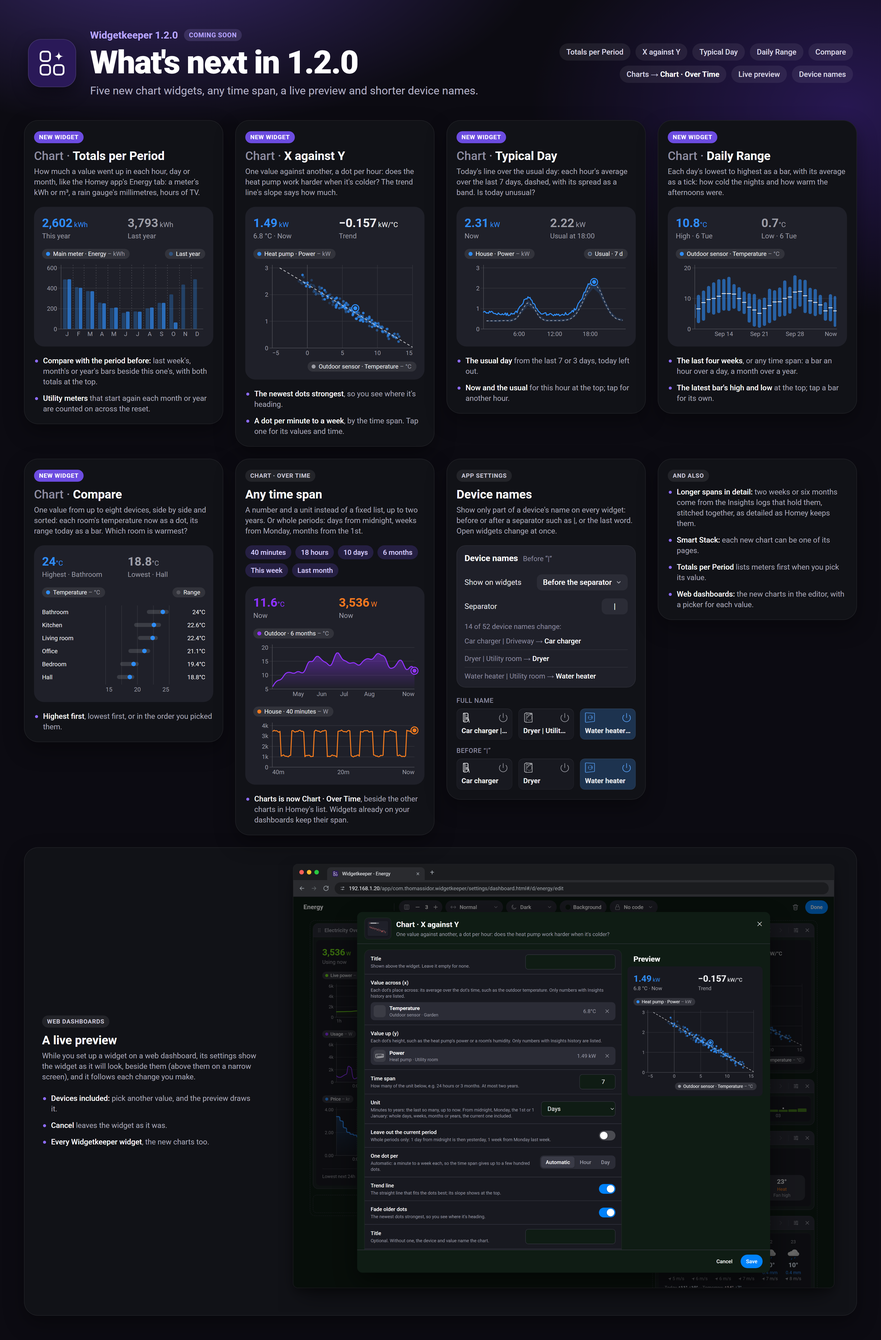
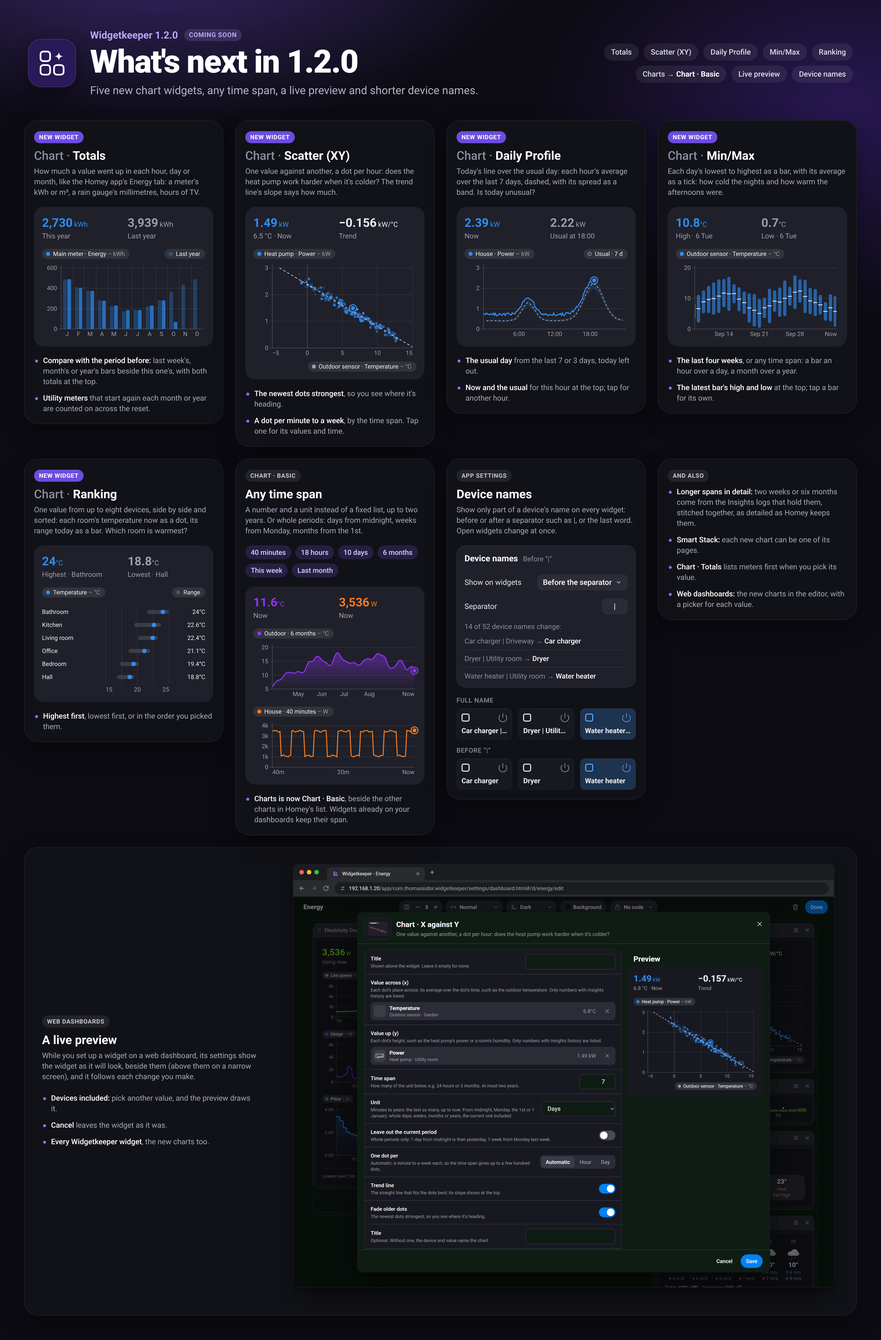
Chart · History is now Chart · Basic
The chart to start with: one value over any span, or against the period before or a second value.
Basic over Plain, Trend, Standard and Then and Now; it comes first among the chart widgets in English.
The id stays `charts` and the README keeps the `#charts` anchor; History was never released.

- The name in 13 languages (French "Graphique · Standard", as "De base" reads poorly), in the widget,
  the Smart Stack's Flow card, the store texts, the README (now first among the charts, with its
  section), the changelog, the notes and the 1.2.0 teaser.
- The teaser re-rendered with Playwright's Chromium: the committed one predated the chart renames
  (Totals per Period, Chart · Over Time).

Claude-Session: https://claude.ai/code/session_016E2Awi5tS3gidUVMK5L2Mr

diff --git a/dev/whats-next-1.2.0.html b/dev/whats-next-1.2.0.html
@@ -7,7 +7,7 @@
   <!--
     A teaser of 1.2.0 (CHANGELOG.md), in the look of the 1.0.0 and 1.1.0 posters (whats-new.html, whats-next-1.1.0.html):
     the five new chart widgets (Totals, Scatter (XY), Daily Profile, Min/Max, Ranking) as the real widgets
-    with the README screenshots' made-up readings (mock-*.js), Chart · History's free time spans (two stacked charts of
+    with the README screenshots' made-up readings (mock-*.js), Chart · Basic's free time spans (two stacked charts of
     6 months and 40 minutes, drawn here), the Device names setting (its card drawn, Quick Actions with the full and the
     short names) and the web editor's live preview (docs/web/preview.png, `npm run web-showcase -- preview`).
     scripts/render-whats-next.mjs (`npm run whats-next`) renders it to docs/whats-next-1.2.0.png at 2x; the clock is
@@ -130,7 +130,7 @@
     </div>
     <div class="chips">
       <span>Totals</span><span>Scatter (XY)</span><span>Daily Profile</span><span>Min/Max</span><span>Ranking</span>
-      <span>Charts → <b>Chart · History</b></span><span>Live preview</span><span>Device names</span>
+      <span>Charts → <b>Chart · Basic</b></span><span>Live preview</span><span>Device names</span>
     </div>
   </header>
 
@@ -203,13 +203,13 @@
 
     <div class="column">
       <section class="feat">
-        <span class="tag">Chart · History</span>
+        <span class="tag">Chart · Basic</span>
         <h2>Any time span</h2>
         <p>A number and a unit instead of a fixed list, up to two years. Or whole periods: days from midnight, weeks from Monday, months from the 1st.</p>
         <div class="spans"><span>40 minutes</span><span>18 hours</span><span>10 days</span><span>6 months</span><span>This week</span><span>Last month</span></div>
         <div class="card chart"><div id="w-charts"></div></div>
         <ul class="more">
-          <li><b>Charts is now Chart · History</b>, beside the other charts in Homey's list. Widgets already on your dashboards keep their span.</li>
+          <li><b>Charts is now Chart · Basic</b>, beside the other charts in Homey's list. Widgets already on your dashboards keep their span.</li>
         </ul>
       </section>
     </div>
@@ -276,7 +276,7 @@
       MOUNT.dailyrange(el('w-dailyrange'), { opts: {}, state: mockDailyRange.dailyRangeState('4w', NOW) });
       MOUNT.compare(el('w-compare'), { opts: { count: 6 }, state: mockCompare.compareState('1d!', NOW) });
 
-      // Chart · History: two stacked charts of very different spans. The outdoor temperature over the last 6 months
+      // Chart · Basic: two stacked charts of very different spans. The outdoor temperature over the last 6 months
       // (a Danish year's curve with the weather's ups and downs, each point a day and a half's average) and the house's
       // power over the last 40 minutes (the oven keeping its heat while dinner cooks), both made up; their values now
       // as the showcase's (11.6 °C, 3,536 W).

diff --git a/widgets/spacer/public/kit.js b/widgets/spacer/public/kit.js
@@ -227,7 +227,7 @@
   }
 
   /**
-   * The time spans of the chart widgets (Chart · History, Chart · Totals …) and Sparklines: `<count><unit>`, the last
+   * The time spans of the chart widgets (Chart · Basic, Chart · Totals …) and Sparklines: `<count><unit>`, the last
    * `count` minutes (`m`), hours (`h`), days (`d`), weeks (`w`), months (`mo`) or years (`y`) up to now; with `!` whole
    * local periods instead (days from midnight, weeks from Monday, as Homey's, months from the 1st, years from 1 January),
    * the current one included, or with `!-` left out (`1d!-` is yesterday). The names spans had before 1.2.0 are whole

diff --git a/.claude/rules/widgets/charts.md b/.claude/rules/widgets/charts.md
@@ -7,7 +7,7 @@ paths:
   - "test/electricity-render.test.ts"
   - "dev/charts-preview.html"
 ---
-# Chart · History widget (`charts`, called Charts until 1.2.0 and Chart · Over Time while 1.2.0 was built) and the shared chart module
+# Chart · Basic widget (`charts`, called Charts until 1.2.0, and Chart · Over Time and Chart · History while 1.2.0 was built) and the shared chart module
 
 - One chart, two stacked, or two series on one chart (`charts`: `1`/`2`/`overlay`; the user asked for the last, like the Electricity Overview's usage over price) of any logged number, drawn like the Electricity Overview (wk-043, the user's idea). Not transparent: `homey-widget`, with no dark frame of its own.
 - **The shared chart module** is `widgets/electricity/public/chart.js` + `chart.css` (Homey serves each widget's folder and has no shared one; Charts and Chart · Totals load `../electricity/chart.js`), `window.WidgetkeeperChart`: the path, scale and format helpers (`smoothValues`, `linePath`, `stepPath`, `p015`, `compactNumber` `−1,5k`, `ago` `1h · 30m`, `axisLabel(nf, v, step)` `1,25k` …), the value axis' steps (`ticks({max, min, fit})`: `{step, axisMin, axisMax, k, zeroIndex}`, which `valueScale` and `dualScale` draw), the bars on the local clock (`buckets()`: Charts' `chartBuckets()`, a length, `'week'` (from Monday) or `'month'`, each bar its points' average or with `agg` their `min`, `max` or `last`, moved there for Chart · Totals with `axisLabel()`; `barUnit(from, to, unit)`, the bars' unit for any span: a calendar day's hours, a week's or month's days, a year's months, else the shortest of 1 min … 12 h, a day, a week, a month giving at most 28 bars, which keeps every bar Charts drew before (1 h: 5 min … 7 d: 6 h); and Totals' `useBuckets()`, `meterTotal()`, `calendarLabels()`), `attachScrub()` (the pointer, 3 s touch hold and `preventDefault` wiring) and `createKit()`, per widget with its own gradient/clip ids: `axis`, `chip`, `exportSplit`, `midnightLines`, `valueScale` (from zero like the W scales; with `fit`, whole steps just outside the range, a zero line only when it crosses zero, a flat series in the middle; returns `baseY`, where areas and bars close), `dualScale` (`overlay`: left and right scales on one grid, sharing the zero line and steps like the price and usage scales), `trace` (line, gradient area, the split below zero), `bars` ….
@@ -16,7 +16,7 @@ paths:
   - The class names are the Electricity Overview's (`.ew` is the shared scope), so its markup didn't change: `test/electricity-render.test.ts` compares 19 renders with `test/fixtures/electricity-render.json`, recorded before the move (delete it to re-record, on purpose). Each `widget.css` adds its series' colours and their `.export` variants after `chart.css` (an `.export` rule before a series rule would lose).
   - `chart.css`/`chart.js` load before `widget.*` in both `index.html`s, the dev pages that mount either, `DEPS` in `test/helpers/loadWidget.ts` and `DEPS` in the stack's `mount.js` (once per page); `test/widget-html.test.ts` ('shared files') checks they agree.
 - **Its place among the chart widgets** (the user, 2026-10-30: it had become the odd one out once Lines took "several values"): the plain, default chart, "How did it go?", one value over any span, and its comparisons: against the period before (today over yesterday; the only chart that does it for an ordinary value, Totals does it for counters) or a second value with its own scale; two stacked charts stay. Its modes can't be cut (a removed setting never reaches the phone again, so a 1.1 widget with `charts: 2` or `overlay` would fall back to one chart), so only the wording changed: the README, the about line and store sentence lead with the question, and the `charts` dropdown is titled "Values" with "One value", "Two values, stacked" and "Two values on one chart" (the ids `1`, `2`, `overlay` stay), its hint naming the comparisons and Chart · Lines for more values.
-- **Renamed** "Chart · Over Time", then "Chart · History" (2026-10-30, with the other chart widgets: names that say what each offers), in 1.2.0 (the user's choice, so every chart widget sits together in Homey's list, each language's word for a chart first as Chart · Totals'; the Smart Stack's Flow card too); the id stays `charts`, the README keeps the `#charts` anchor, old changelogs and posts keep Charts.
+- **Renamed** "Chart · Over Time", then "Chart · History" (2026-10-30, with the other chart widgets: names that say what each offers), then "Chart · Basic" the same day (the user's pick over Plain, Trend, Standard and Then and Now: the chart to start with, first among the chart widgets in English; French says `Standard`, as `De base` reads poorly after `Graphique ·`), in 1.2.0 (the user's choice, so every chart widget sits together in Homey's list, each language's word for a chart first as Chart · Totals'; the Smart Stack's Flow card too); the id stays `charts`, the README keeps the `#charts` anchor, old changelogs and posts keep Charts.
 - **Settings come from the catalog** (`scripts/chart-settings.json`, `npm run chart-settings`, 1.2.0): change them there, never in `widget.compose.json` (a test compares them). A new chart widget takes its blocks from there.
 - **Time spans** (1.2.0, the user's ask: any number of a unit instead of the presets): the catalog's time span block, `countN` (number, 1–999, default 24), `spanN` (the unit: `minutes` … `years` rolling, `calDays`, `calWeeks`, `calMonths`, `calYears` whole periods; default `hours`) and `leaveOutN` ("Leave out the current period", whole periods only). The mount turns them into a span string with the kit's `spanSetting()` (`<count><unit>[!][-]`: `24h`, `40m`, `3mo!-`; `parseSpan()`, `timeSpan()`, up to two years). A span stored before 1.2.0 in `spanN` (`24h`, `today`, `lastMonth` …) stays in force until a unit is picked: the kit reads the old names as whole periods (`today` `1d!`, `lastMonth` `1mo!-`); the phone's dropdown then shows no unit, and the web editor shows it as its number and unit (`spanFields()`). The x labels come from the chart kit's `timeLabels()` (any length: relative up to 6 h, hours up to a day, weekdays up to 8 days, the 7th/14th/21st/28th up to two months, then months, January as its year), the bars from `barUnit()`, a finished span's header from the old names (`Yesterday · avg` …) or its dates (`rangeAvg`, `1 Jul – 30 Sep · avg`).
 - Settings (26): `charts`, `sharedScale` (off; only with `overlay`, below), `showHeader` (on), `legend` (below), then per chart N: `chartN` (autocomplete `app.sparklines.listSlots`, logged numbers), `countN`, `spanN` and `leaveOutN` (the time span, above), `styleN` (`area` default, `line`, `bars`), `colorN` (the Heatmap's six; blue, then green), `rangeN` (`fit` default, `zero`), `negativeN` ("Below zero in yellow", off), `smoothN` (off), `titleN` (else `Device · Capability`). The user chose a per-chart scale and yellow setting, and an optional header. With `overlay`, `span2` and `range2` are ignored (their hints say so): series 2 takes chart 1's span (`mount.js` asks with it only when both charts are picked) and kind of scale. Except two calendar periods of one kind (today with yesterday, this week with last, this month or year with last, either way, or the same one twice; the kit's `spanUnit()`, in the widget; `mount.js` asks `/state` for the widget's `spans()`): series 2 keeps its own, so one capability's today and yesterday (or this month and last) can be compared (wk-102, SunBeech's daily water use; before, yesterday was asked for and drawn as today; widened to weeks, months and years with wk-104).

diff --git a/README.md b/README.md
@@ -17,13 +17,13 @@ Many motion, contact and vibration sensors at a glance, as dots that change colo
 <a href="#cameras"><b>Cameras</b></a><br>
 Two to six cameras in one grid of snapshots; tap one to watch it live<br clear="left"></p>
 
+<p><a href="#chart--basic"><picture><source media="(prefers-color-scheme: dark)" srcset="docs/previews/charts-dark.png"><img src="docs/previews/charts-light.png" alt="" width="120" align="left"></picture></a>
+<a href="#chart--basic"><b>Chart · Basic</b></a><br>
+How did it go? One value over any span, from minutes to two years, or against the period before or a second value<br clear="left"></p>
+
 <p><a href="#chart--daily-profile"><picture><source media="(prefers-color-scheme: dark)" srcset="docs/previews/typicalday-dark.png"><img src="docs/previews/typicalday-light.png" alt="" width="120" align="left"></picture></a>
 <a href="#chart--daily-profile"><b>Chart · Daily Profile</b></a><br>
 Today's line over the usual day and its spread: is today unusual?<br clear="left"></p>
-
-<p><a href="#chart--history"><picture><source media="(prefers-color-scheme: dark)" srcset="docs/previews/charts-dark.png"><img src="docs/previews/charts-light.png" alt="" width="120" align="left"></picture></a>
-<a href="#chart--history"><b>Chart · History</b></a><br>
-How did it go? One value over any span, from minutes to two years, or against the period before or a second value<br clear="left"></p>
 
 <p><a href="#chart--lines"><picture><source media="(prefers-color-scheme: dark)" srcset="docs/previews/lines-dark.png"><img src="docs/previews/lines-light.png" alt="" width="120" align="left"></picture></a>
 <a href="#chart--lines"><b>Chart · Lines</b></a><br>
@@ -189,19 +189,10 @@ Your cameras as a grid of snapshots that refresh every few seconds (cameras with
 
 **Settings:** cameras, layout (a large camera at the top or bottom, or one per row), refresh interval, how long live view stays on, time format, [rename tiles](#tile-names).
 
-## Chart · Daily Profile
-<img src="docs/screenshots/typicalday.png" alt="Chart · Daily Profile on a Homey dashboard: the house's power today as a line, a little over its usual day, which is dashed with its spread as a band, peaking in the morning and the evening" width="358">
-
-A value today against its usual day: each hour's average over the last 7 days (or 3), today left out, dashed, with their lowest to highest as a band, and today's line over it up to now. The value now and the usual one for this hour sit at the top; tap the chart for another hour.
-
-It takes any value that Homey logs in Insights, read from its hourly log (which reaches a week back).
-
-**Settings:** the value, usual day from (the last 7 or 3 days), show the spread, smooth line, scale (fitted or from zero), title, the values at the top, colour, [colour style](#colour-style).
-
 <a name="charts"></a>
 
-## Chart · History
-<img src="docs/screenshots/charts.png" alt="Chart · History on a Homey dashboard: the outdoor temperature as a line, and the power use as bars" width="358">
+## Chart · Basic
+<img src="docs/screenshots/charts.png" alt="Chart · Basic on a Homey dashboard: the outdoor temperature as a line, and the power use as bars" width="358">
 
 How did it go? Any value that Homey logs in Insights, over any [time span](#time-spans) from minutes to two years, as a line, an area or bars, drawn like Electricity Overview's charts. The value now sits at the top in the chart's colour; tap the chart to see the value at that moment.
 
@@ -215,12 +206,21 @@ For how much a value went up in each hour, day or month (a meter's kWh, rain, ho
 
 **Time spans** (both chart widgets): a number and a unit. Minutes, hours, days, weeks, months or years are the last so many up to now (40 minutes, 24 hours, 18 months). Days from midnight, weeks from Monday, months from the 1st and years from 1 January are whole periods, the current one included (1 day from midnight is today, 3 months from the 1st this month and the two before), or with *Leave out the current period* the ones before it (yesterday, last week, the three months before this one). Up to two years: Insights keeps no more. A chart set up before 1.2.0 keeps its span.
 
+## Chart · Daily Profile
+<img src="docs/screenshots/typicalday.png" alt="Chart · Daily Profile on a Homey dashboard: the house's power today as a line, a little over its usual day, which is dashed with its spread as a band, peaking in the morning and the evening" width="358">
+
+A value today against its usual day: each hour's average over the last 7 days (or 3), today left out, dashed, with their lowest to highest as a band, and today's line over it up to now. The value now and the usual one for this hour sit at the top; tap the chart for another hour.
+
+It takes any value that Homey logs in Insights, read from its hourly log (which reaches a week back).
+
+**Settings:** the value, usual day from (the last 7 or 3 days), show the spread, smooth line, scale (fitted or from zero), title, the values at the top, colour, [colour style](#colour-style).
+
 ## Chart · Lines
 <img src="docs/screenshots/lines.png" alt="Chart · Lines on a Homey dashboard: the last 24 hours of four rooms' temperatures, a line each in blue, red, orange and yellow, the living room's and the kitchen's now at the top" width="358">
 
 Up to six values over time on one chart, a line each in its own colour: every room's temperature, each radiator's power, the outdoor and indoor humidity, or the heat pump's power among the temperatures. The last 24 hours by default, or any other [time span](#time-spans). The first two values now sit at the top (over a finished span, such as yesterday, their averages); tap the chart for the line nearest your finger at that time, with a dot on each line there.
 
-The first value's kind sets the scale on the left (W and kW go on one scale), and a second kind of value, such as power beside temperatures, gets a scale on the right; each kind's units show on its first chip. A value in a third kind of units is left out, its chip saying so. To compare one value with the period before it (today over yesterday), use [Chart · History](#chart--history).
+The first value's kind sets the scale on the left (W and kW go on one scale), and a second kind of value, such as power beside temperatures, gets a scale on the right; each kind's units show on its first chip. A value in a third kind of units is left out, its chip saying so. To compare one value with the period before it (today over yesterday), use [Chart · Basic](#chart--basic).
 
 **Settings:** values 1 to 6 each with its colour, [time span](#time-spans), style (lines, or lines with areas), scale (fit to the values or from zero), smooth lines, the legend above or below the chart, title, the values at the top, [colour style](#colour-style).
 

diff --git a/.claude/rules/widgets/totals.md b/.claude/rules/widgets/totals.md
@@ -8,7 +8,7 @@ paths:
 # Chart · Totals widget (`totals`, called Totals per Period while it was built; renamed 2026-10-30, as the other chart widgets, by what it offers)
 
 - How much a value that only counts up went up per hour, day or month, like the Homey app's Energy tab: a meter's kWh or m³, a rain gauge's mm, hours of TV (wk-099, pimswj3 on the forum, 2026-10-27: bars per week, month and year, "hour nice to have", the current and previous period). Named "Usage Chart" at first; the user renamed it the same day (it isn't only for meters), with each language's word for a chart first (`Graf · …`, `Diagramm · …`) so it sits beside Charts in Homey's widget list. Its own widget rather than a Charts mode: the user's rule (2026-10-27) is that a mode bringing settings of its own becomes its own chart widget on the shared chart module, while what applies to every series (a time span, a colour) goes into Charts, whose flat settings list was getting crowded. Not transparent: `homey-widget`. Charts' one-chart layout (header, chip row, 122 px plot, the `ew` classes and `chart.css`), drawn by the chart module (`../electricity/chart.js`, see Charts' note).
-- Settings (9): `slot` ("Value that counts up", autocomplete `app.sparklines.listSlots`, every logged number; the hint names meters, rain and TV hours), `count`, `span` and `leaveOut` (the catalog's time span block on its own rows, 1.2.0: any number of a unit, rolling or whole periods, as Chart · History's; default 1 week from Monday, this week; the widget's `period` option is the span string, the kit's `spanSetting()`), the settings from `scripts/chart-settings.json` (`npm run chart-settings`), `compare` ("Compare with the period before", off), `title` (else `Device · Capability`), `showHeader` ("Show the totals at the top", on), `color` (the Heatmap's six, blue; the kit's `data-wk-color`, its bright set), `colorStyle` (Vivid: bars at 90 %, the period before at 45 %).
+- Settings (9): `slot` ("Value that counts up", autocomplete `app.sparklines.listSlots`, every logged number; the hint names meters, rain and TV hours), `count`, `span` and `leaveOut` (the catalog's time span block on its own rows, 1.2.0: any number of a unit, rolling or whole periods, as Chart · Basic's; default 1 week from Monday, this week; the widget's `period` option is the span string, the kit's `spanSetting()`), the settings from `scripts/chart-settings.json` (`npm run chart-settings`), `compare` ("Compare with the period before", off), `title` (else `Device · Capability`), `showHeader` ("Show the totals at the top", on), `color` (the Heatmap's six, blue; the kit's `data-wk-color`, its bright set), `colorStyle` (Vivid: bars at 90 %, the period before at 45 %).
 - `GET /state?charts=<slot>~<period>~<from>~<end>~<unit>~use[,<the period before's>]` → `{charts: [current, previous?], language}` (1.2.0, Charts' `lib/chartState.ts`): the period's window and with compare the one before's (`windows()`, the kit's `timeSpan(period, now, 1)`), each the value's running total from Sparklines' `getWindows()` (the logs `planLogs()` picks: the period before reads what `PREV_LOGS` named, e.g. the month before last `last3Months`). The value's autocomplete lists meters first (`listSlots(query, 'counter')`). No service of its own. Live: `values:state`, through `C.meterTotal()` onto the running total; redrawn every minute (the live bar, the period rolling over); refetched every 5 min.
 - **The use per bar** (`C.useBuckets()`): the service sends the value's running total (`runningTotal()` in `lib/series.ts`: a value under half the highest since the last reset is a reset and the total counts on; a smaller dip holds; an Insights step averaged across a reset, the one before a lower one, is left out) at each log entry's middle (`meterPoints()`, ≤ 400 points), and each bar is the rise of the line through those points between its edges, on the phone's local clock (`C.buckets()`' steps, Charts' own since 1.1.2: an hour, a day as midnight to midnight, a calendar month). Past the last point the line goes on at its last rate for a step and a half, then holds: Insights leaves out a closed period's last 6-hour step when it straddles local midnight (`lastMonth` ended at 30 Sep 12:00Z), and doesn't log an unchanged value. The live bar ends at the total now. Months and years come from 6-hour logs, so a day's edges in a month can be off by an hour or two of use; `last2Years` (the year before last, for `lastYear` with compare) is weekly.
 - Compare (unlike Charts' two-on-one-chart this-against-last, a line or averages, from 1.1.2): the period before (`timeSpan(period, now, 1)`) in each slot's left half, this period's in the right, paired by index (day 3 with day 3, March with March; a 31st with no partner has none), `.series-bars.prev` at 30 % of the colour; its chip names it (Yesterday, Last week …, or for a closed period Day before yesterday, Week before last …). The header gets a second, muted column: the period before's total, or the tapped slot's bar.

diff --git a/.claude/rules/renders.md b/.claude/rules/renders.md
@@ -21,4 +21,4 @@ paths:
 - `npm run forum-images`: `docs/forum/<showcase|web>-<id>.jpg` for the Homey Community post: the transparent showcase and web PNGs on the App Store images' brand background (`background()` from `scripts/app-images.mjs`), 1380 px wide (2x the post's 690), JPEG 88. Discourse turns a large transparent PNG into a JPEG on white, which showed the first post's tablet in a white box (2026-10-19). Run it after `showcase` and `web-showcase`.
 - `npm run whats-new`: the 1.0.0 poster `docs/whats-new-1.0.0.png` from `dev/whats-new.html` (needs `docs/web/settings.png`). Opaque, so it goes in the forum as it is.
 - `npm run whats-next [-- 1.1.0]`: a release's teaser `docs/whats-next-<version>.png` from `dev/whats-next-<version>.html` (`TEASERS` in the script: each version and the web showcase view it needs; default the latest). 1.1.0's, in the 1.0.0 poster's look: A row of the new widgets (Pollen and UV, Lights by Room with the dev page's drawn zone icons, Web Page, Keypad as in the README screenshot), the Popups panel (the real prompt page in a drawn phone, the hallway camera's made-up picture `dev/cameras/door.webp`, a question and a message, its Flow cards drawn), a row of improvements (Quick Actions' *Activate with* with the front door asking *Tap again*, clicked 2 s in as it asks for 3 s, credited to @stefan-schweiger; Thermostat Presets with its three Flow cards drawn; Charts on Today, the showcase's day; an And also list), and the web dashboards panel (`docs/web/wide.png`, `npm run web-showcase -- wide`: Energy with its chart across two columns). The page fetches the picture, so the script serves the repo root (`withServer()`). Opaque, like the 1.0.0 one.
-- 1.2.0's teaser (`npm run whats-next`, needs `docs/web/preview.png`), in the same look: a row of four new charts and a row with Ranking, Chart · History's free spans (a few as chips; two stacked charts of 6 months and 40 minutes, their readings made up in the page, their values now the showcase's 11.6 °C and 3,536 W), Device names (the settings page's card drawn, Energy's Quick Actions with a room after a `|` in full and before it) and an And also list, then the web dashboards panel with the live preview. Each new chart is its README screenshot's mount (`mock-*.js`, the `h2` with a quieter `Chart ·`). No file is fetched, but the script serves the repo root for both. Byte-identical between runs.
+- 1.2.0's teaser (`npm run whats-next`, needs `docs/web/preview.png`), in the same look: a row of four new charts and a row with Ranking, Chart · Basic's free spans (a few as chips; two stacked charts of 6 months and 40 minutes, their readings made up in the page, their values now the showcase's 11.6 °C and 3,536 W), Device names (the settings page's card drawn, Energy's Quick Actions with a room after a `|` in full and before it) and an And also list, then the web dashboards panel with the live preview. Each new chart is its README screenshot's mount (`mock-*.js`, the `h2` with a quieter `Chart ·`). No file is fetched, but the script serves the repo root for both. Byte-identical between runs.

diff --git a/.claude/rules/widgets/lines.md b/.claude/rules/widgets/lines.md
@@ -7,7 +7,7 @@ paths:
 ---
 # Chart · Lines widget (`lines`)
 
-- Up to six values over time on one chart, a line each in its own colour: every room's temperature, each radiator's power. The user's pick (2026-10-30) of the gaps left after 1.2.0's chart widgets, as its own widget rather than more series in Chart · History (whose 26 settings, ten per series, would have grown by ~40: the rule in Totals' note). Charts' one-chart plot (122 px) with a left value scale, and a right one for a second kind of value. Not transparent: `homey-widget`. On the chart frame and mount helper (Charts' note); built from Chart · Stacked's code (the legend, units, colours, keep-live-points), drawing lines where Stacked stacks.
+- Up to six values over time on one chart, a line each in its own colour: every room's temperature, each radiator's power. The user's pick (2026-10-30) of the gaps left after 1.2.0's chart widgets, as its own widget rather than more series in Chart · Basic (whose 26 settings, ten per series, would have grown by ~40: the rule in Totals' note). Charts' one-chart plot (122 px) with a left value scale, and a right one for a second kind of value. Not transparent: `homey-widget`. On the chart frame and mount helper (Charts' note); built from Chart · Stacked's code (the legend, units, colours, keep-live-points), drawing lines where Stacked stacks.
 - Data: each value's window through `/state` (`lib/chartState.ts`, Sparklines' `getWindows()`, up to 120 points each), drawn as they come (no common grid: each line its own points), the value now carrying a line on to now while the window is live. No live points on a 6-hourly span (the kit's `sixHourSpan()`), as Charts.
 - Units and sides (`plan()`): the first readable value sets the left side's units, the first that can't go on it the right side's (the user's ask, 2026-10-30, so Lines owns "several values" and History is left with one value and its comparisons); W/kW/MW and Wh/kWh/MWh are scaled onto a side's units (`UNIT_SCALE`, Stacked's), a 0–1 `%` by the kit's `scaled()`; a value in a third kind of units is left out, its chip muted with `Other units`. Only when lines on both sides are drawn: `kit.dualScale()` (Charts' two on one chart, `fit` unless `range: zero`) and the plot `R` (34 px) narrower; else one `valueScale()`. Each side's units once: with one side on the title chip (else the first drawn line's chip), with two on each side's first drawn line's chip. The header writes a value to its side's first value's decimals and units; a tap's nearest line is measured on each line's own scale (`drawn.yOf(l)`).
 - Scale: `range` (Charts' `fit` default: `valueScale({fit: true})` over every drawn point; `zero`: from zero, below it where a value goes there). `smooth` (Charts' `smoothValues()` and the monotone path; the header keeps the real values).

diff --git a/CLAUDE.md b/CLAUDE.md
@@ -1,6 +1,6 @@
 # Widgetkeeper — notes for Claude
 
-Homey Pro app (`com.thomassidor.widgetkeeper`) of custom dashboard widgets. Never rename a widget id: it breaks widgets already on dashboards. 1.0.0 renamed Price Badge, Thermostat Shortcuts, Sensor Dots and Flow Variables to Energy Price Strip, Thermostat Presets, Activity Dots and Variables; the 0.9.0 changelog and posts keep the old names, and README.md their old anchors (`<a name>`); 1.2.0 renamed Charts to Chart · History. The electricity design spec is `temp/Homey electricity dashboard widget.zip` (`temp/` is gitignored).
+Homey Pro app (`com.thomassidor.widgetkeeper`) of custom dashboard widgets. Never rename a widget id: it breaks widgets already on dashboards. 1.0.0 renamed Price Badge, Thermostat Shortcuts, Sensor Dots and Flow Variables to Energy Price Strip, Thermostat Presets, Activity Dots and Variables; the 0.9.0 changelog and posts keep the old names, and README.md their old anchors (`<a name>`); 1.2.0 renamed Charts to Chart · Basic. The electricity design spec is `temp/Homey electricity dashboard widget.zip` (`temp/` is gitignored).
 
 ## Notes per widget and area (`.claude/rules/`)
 This file holds what applies across the app. Each widget's notes, and those of the larger areas, are in `.claude/rules/`; Claude Code loads a note when you read a file its `paths:` cover (the widget's folder, service, tests and dev pages).
@@ -23,7 +23,7 @@ This file holds what applies across the app. Each widget's notes, and those of t
 | Device Values | `values` | `widgets/values.md` |
 | Light Controls | `lights` | `widgets/lights.md` |
 | Lights by Room | `lightrooms` | `widgets/lightrooms.md` |
-| Chart · History, called Charts until 1.2.0 and Chart · Over Time while it was built (and the shared chart module, frame and settings catalog) | `charts` | `widgets/charts.md` |
+| Chart · Basic, called Charts until 1.2.0, and Chart · Over Time and Chart · History while it was built (and the shared chart module, frame and settings catalog) | `charts` | `widgets/charts.md` |
 | Chart · Totals (called Totals per Period while it was built) | `totals` | `widgets/totals.md` |
 | Chart · Scatter (XY) (called X against Y while it was built) | `scatter` | `widgets/scatter.md` |
 | Chart · Daily Profile (called Typical Day while it was built) | `typicalday` | `widgets/typicalday.md` |

diff --git a/CHANGELOG.md b/CHANGELOG.md
@@ -11,7 +11,7 @@ All notable changes to Widgetkeeper. The version numbers match the Homey app ver
 - **A live preview while you set up a widget:** the settings show the widget as it will look, beside them (above them on a narrow screen), and it follows each change you make. Cancel leaves the widget as it was.
 
 ### Charts: any time span
-- **Charts is now Chart · History**, so it sits beside the other chart widgets in Homey's list: the one for how a value went, or how it compares with the period before or a second value. Its first setting now reads *One value*, *Two values, stacked* or *Two values on one chart*. Widgets already on your dashboards stay as they are.
+- **Charts is now Chart · Basic**, so it sits beside the other chart widgets in Homey's list: the one for how a value went, or how it compares with the period before or a second value. Its first setting now reads *One value*, *Two values, stacked* or *Two values on one chart*. Widgets already on your dashboards stay as they are.
 - **Any time span:** pick a number and a unit instead of a fixed list: the last 40 minutes, 18 hours, 10 days or 6 months, up to two years. Or whole periods: days from midnight, weeks from Monday, months from the 1st or years from 1 January, such as this week or this month and the two before, and with *Leave out the current period* the ones before it (yesterday, last week, the three months before this one). The time labels and bars fit whatever span you pick. Charts set up before keep their span until you pick a unit.
 - On one chart, two whole periods of one unit still compare (today over yesterday, this month over last).
 - Longer spans read Homey's history from the logs that hold them, stitched together where one doesn't, so a span of two weeks or six months comes out as detailed as Homey keeps it.
